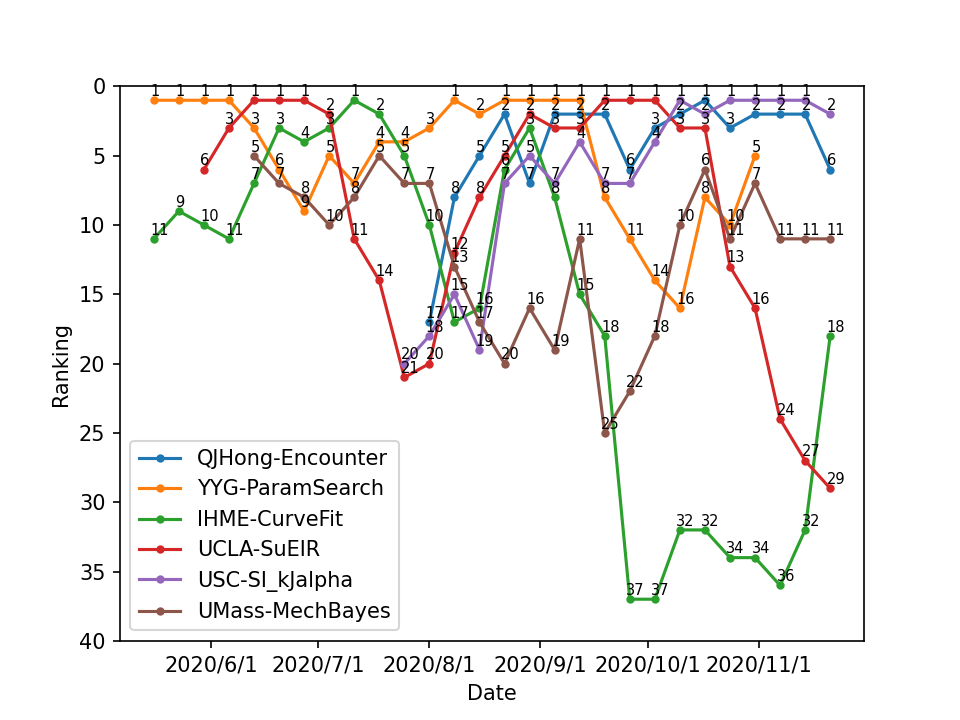
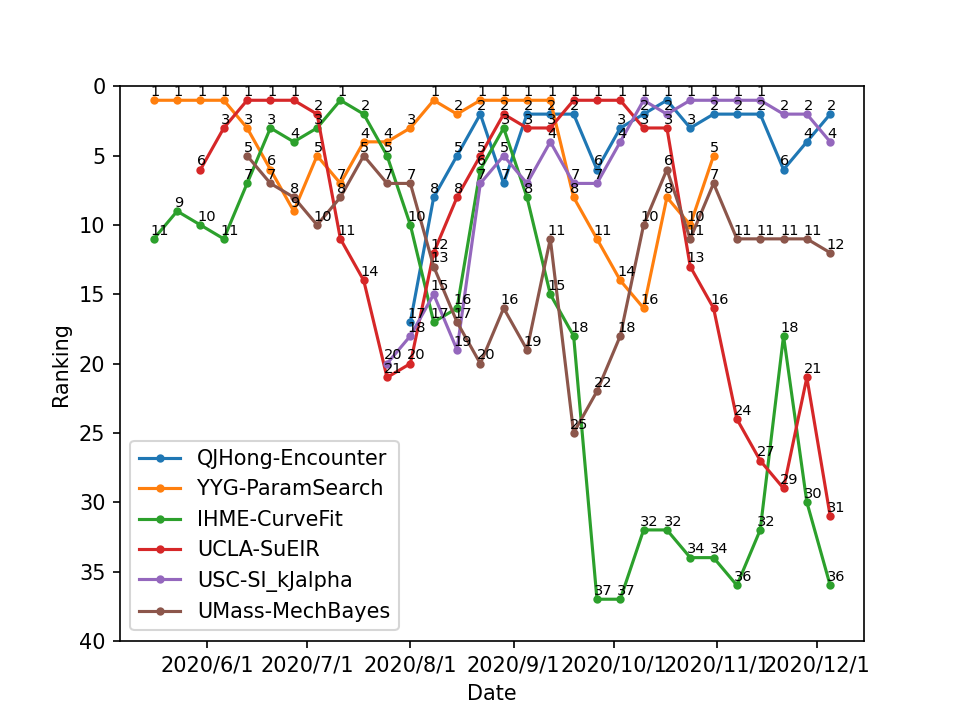
update Dec 07

diff --git a/myrank.py b/myrank.py
@@ -127,7 +127,7 @@ plt.gca().invert_yaxis()
 plt.xlabel('Date')
 plt.ylabel('Ranking')
 plt.legend(['QJHong-Encounter','YYG-ParamSearch','IHME-CurveFit','UCLA-SuEIR','USC-SI_kJalpha','UMass-MechBayes'])#,'OliverWyman-Navigator'])#,'COVIDhub-ensemble','LANL-GrowthRate'])
-plt.xticks([datetime(2020,6,1),datetime(2020,7,1),datetime(2020,8,1),datetime(2020,9,1),datetime(2020,10,1),datetime(2020,11,1)],['2020/6/1','2020/7/1','2020/8/1','2020/9/1','2020/10/1','2020/11/1'])
+plt.xticks([datetime(2020,6,1),datetime(2020,7,1),datetime(2020,8,1),datetime(2020,9,1),datetime(2020,10,1),datetime(2020,11,1),datetime(2020,12,1)],['2020/6/1','2020/7/1','2020/8/1','2020/9/1','2020/10/1','2020/11/1','2020/12/1'])
 plt.savefig('Model_Rank',dpi=150)
 plt.show()
 
